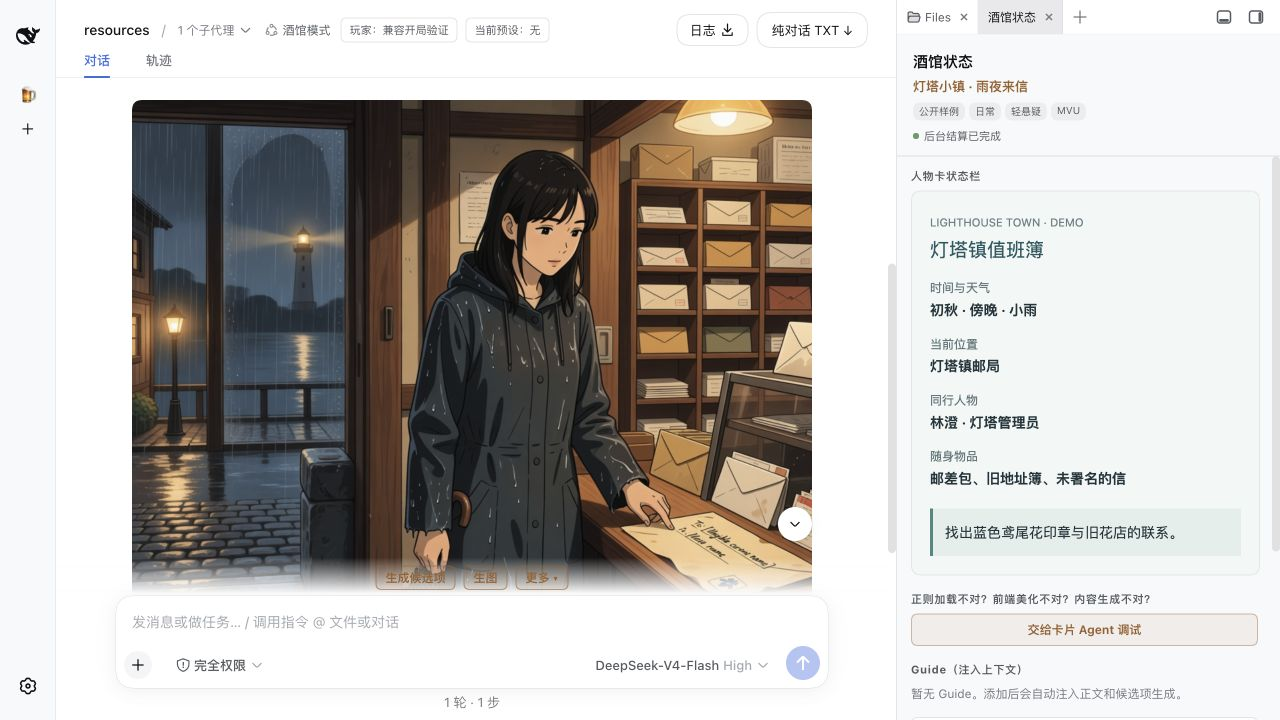
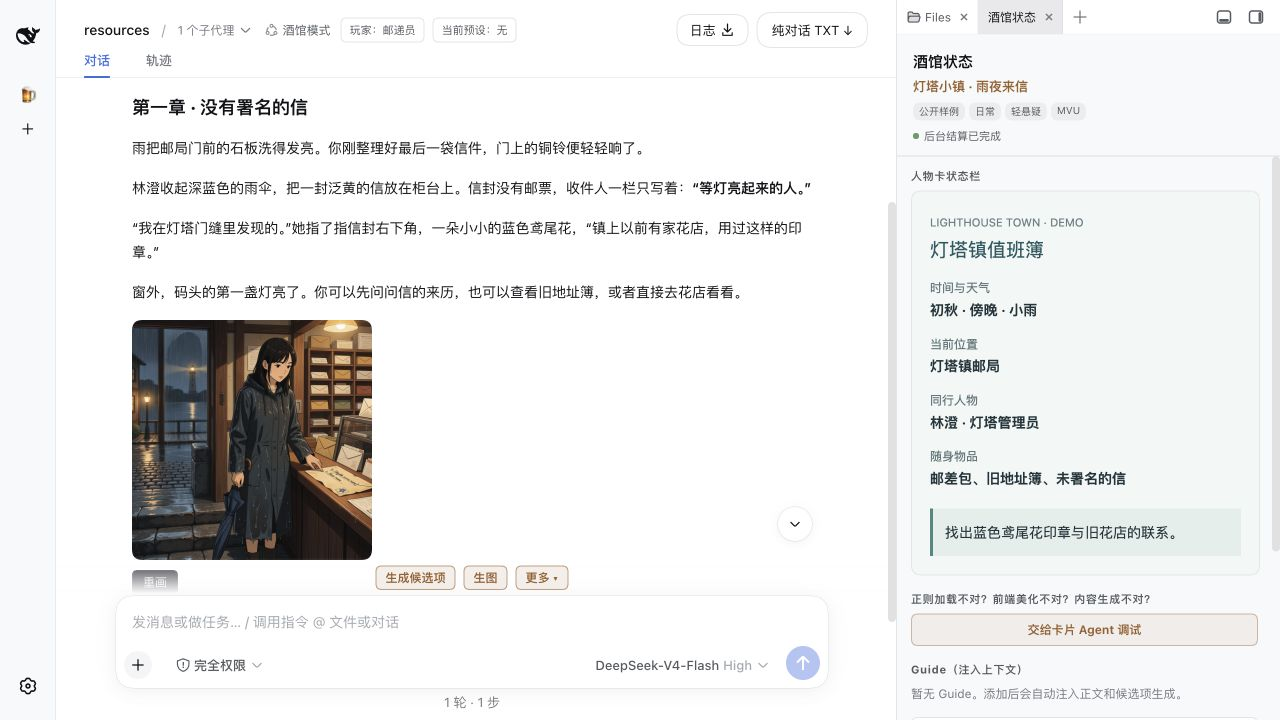
fix: constrain scene illustrations to responsive previews

diff --git a/tavern-plugin/lib/client-assets/tavern.css b/tavern-plugin/lib/client-assets/tavern.css
@@ -28,7 +28,8 @@
 .dsh-tavern-error-message { white-space: pre-wrap; overflow-wrap: anywhere; font-size: 12px; line-height: 1.55; }
 .dsh-tavern-assistant { display: flex; flex-direction: column; gap: 16px; color: var(--dsw-alias-label-primary); font-size: 16px; line-height: 28px; }
 .dsh-tavern-illustration { display: flex; flex-direction: column; align-items: flex-start; gap: 10px; }
-.dsh-tavern-illustration img { display: block; max-width: 100%; max-height: 720px; object-fit: contain; border-radius: 12px; }
+.dsh-tavern-illustration > a { display: block; max-width: 100%; }
+.dsh-tavern-illustration img { display: block; width: auto; height: auto; max-width: min(100%, 320px); max-height: min(240px, 35svh); object-fit: contain; border-radius: 12px; }
 .dsh-tavern-image-actions { display: flex; flex-wrap: wrap; align-items: center; gap: 8px; }
 .dsh-tavern-image-adjust { box-sizing: border-box; width: min(100%, 560px); padding: 14px; border: 1px solid var(--dsw-alias-border-l2); border-radius: 12px; }
 .dsh-tavern-image-adjust textarea { box-sizing: border-box; display: block; width: 100%; min-height: 80px; margin: 8px 0; }
